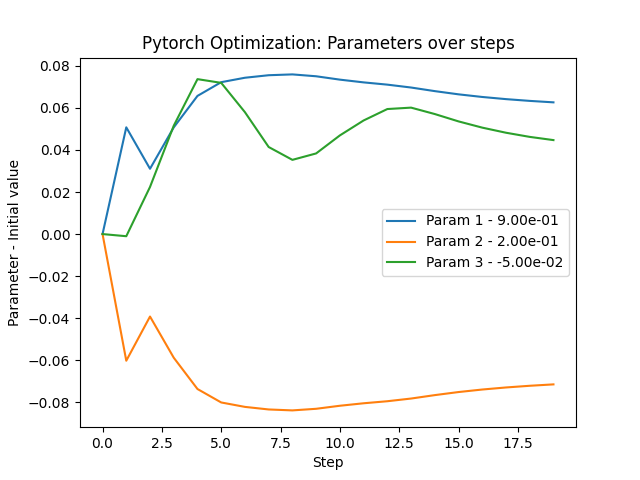
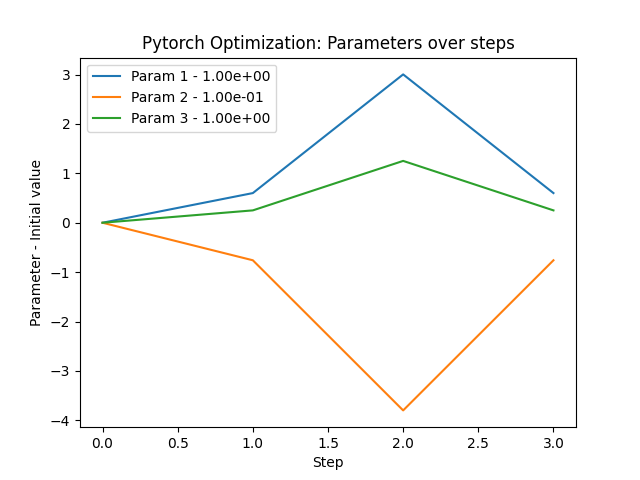
Better guiding center model

diff --git a/params_and_model.py b/params_and_model.py
@@ -19,10 +19,10 @@ if model == 'lorenz':
     learning_rate_jax = 0.2
 elif model == 'guiding-center':
     initial_conditions = [0.5, 0.1, 0.1]
-    a_initial = [1.0, 0.1, 0.05]  # sigma, rho, beta
+    a_initial = [1.0, 0.1, 0.01]  # B0, B1c, alpha
     tmin = 0
-    tmax = 300
-    nt_per_time_unit = 5
+    tmax = 200
+    nt_per_time_unit = 10
     n_steps_to_compute_loss = 30
     x_target = initial_conditions[0]
     x_to_optimize = 0 # optimize x0
@@ -32,7 +32,7 @@ elif model == 'guiding-center':
 
 delta_jacobian_scipy = 1e-5
 tol_optimization = 1e-3
-use_scipy_torch = False
+use_scipy_torch = True
 use_scipy_jax = False
 step_optimization_verbose = True
 
@@ -43,17 +43,17 @@ n_steps_to_compute_loss = np.min([n_steps_to_compute_loss, nt])
 if model == 'guiding-center':
     ## Guiding-center equations for x=psi, y=theta, z=phi
     # Define the system of equations
-    Lambda = 0.9
+    Lambda = 0.1
     iota = 0.41
     G = 2*np.pi
     def B(a, x, y, z):
-        return a[0] + a[1] * x * jnp.cos(a[2] * y)
+        return a[0] + a[1] * x * jnp.cos(y) + a[2] * jnp.sin(z)
     
     def dBdx(a, x, y, z):
-        return a[1] * jnp.cos(a[2] * y)
+        return a[1] * jnp.cos(y)
     
     def dBdy(a, x, y, z):
-        return -a[1] * a[2] * x * jnp.sin(a[2] * y)
+        return -a[1] * x * jnp.sin(y)
 
     def system(w, t, a):
         x, y, z = w
@@ -65,7 +65,7 @@ if model == 'guiding-center':
 
         v_parallel = vpar_sign*jnp.sqrt(1-Lambda*B_val)
         dxdt =-(2*Lambda-B_val)/(2*Lambda*B_val)*dBdy_val
-        dydt = (B_val-2*Lambda)/(2*Lambda*B_val)*dBdx_val+iota/G*B_val
+        dydt = (B_val-2*Lambda)/(2*Lambda*B_val)*dBdx_val+iota*v_parallel/G*B_val
         dzdt = v_parallel*B_val/G
         return [dxdt, dydt, dzdt]
 
@@ -78,13 +78,13 @@ if model == 'guiding-center':
             x, y, z = w[..., 0], w[..., 1], w[..., 2]
             
             vpar_sign = 1
-            B_val = self.a[0] + self.a[1] * x * torch.cos(self.a[2] * y)
-            dBdx_val = self.a[1] * torch.cos(self.a[2] * y)
-            dBdy_val = -self.a[1] * self.a[2] * x * torch.sin(self.a[2] * y)
+            B_val = self.a[0] + self.a[1] * x * torch.cos(y) + self.a[2] * torch.sin(z)
+            dBdx_val = self.a[1] * torch.cos(y)
+            dBdy_val = -self.a[1] * x * torch.sin(y)
 
             v_parallel = vpar_sign*torch.sqrt(1-Lambda*B_val)
             dxdt =-(2*Lambda-B_val)/(2*Lambda*B_val)*dBdy_val
-            dydt = (B_val-2*Lambda)/(2*Lambda*B_val)*dBdx_val+iota/G*B_val
+            dydt = (B_val-2*Lambda)/(2*Lambda*B_val)*dBdx_val+iota*v_parallel/G*B_val
             dzdt = v_parallel*B_val/G
             return torch.stack([dxdt, dydt, dzdt], dim=-1)
 elif model == 'lorenz':

diff --git a/optimizers.py b/optimizers.py
@@ -48,6 +48,8 @@ def optimize_with_scipy(results_path):
         initial_time = time.time()
         solution = solve_with_scipy(a)
         final_state = solution[-n_steps_to_compute_loss:, x_to_optimize]-x_target
+        # solution = [[x1(t), y1(t), z1(t)],[x2(t), y2(t), z2(t)],...]
+        # mean_solution = np.mean(solution, axis=(0,2))
         loss = np.sum(np.square(final_state))
         grad = np.empty((len(a_initial,)))
         for i in range(len(a_initial)):
